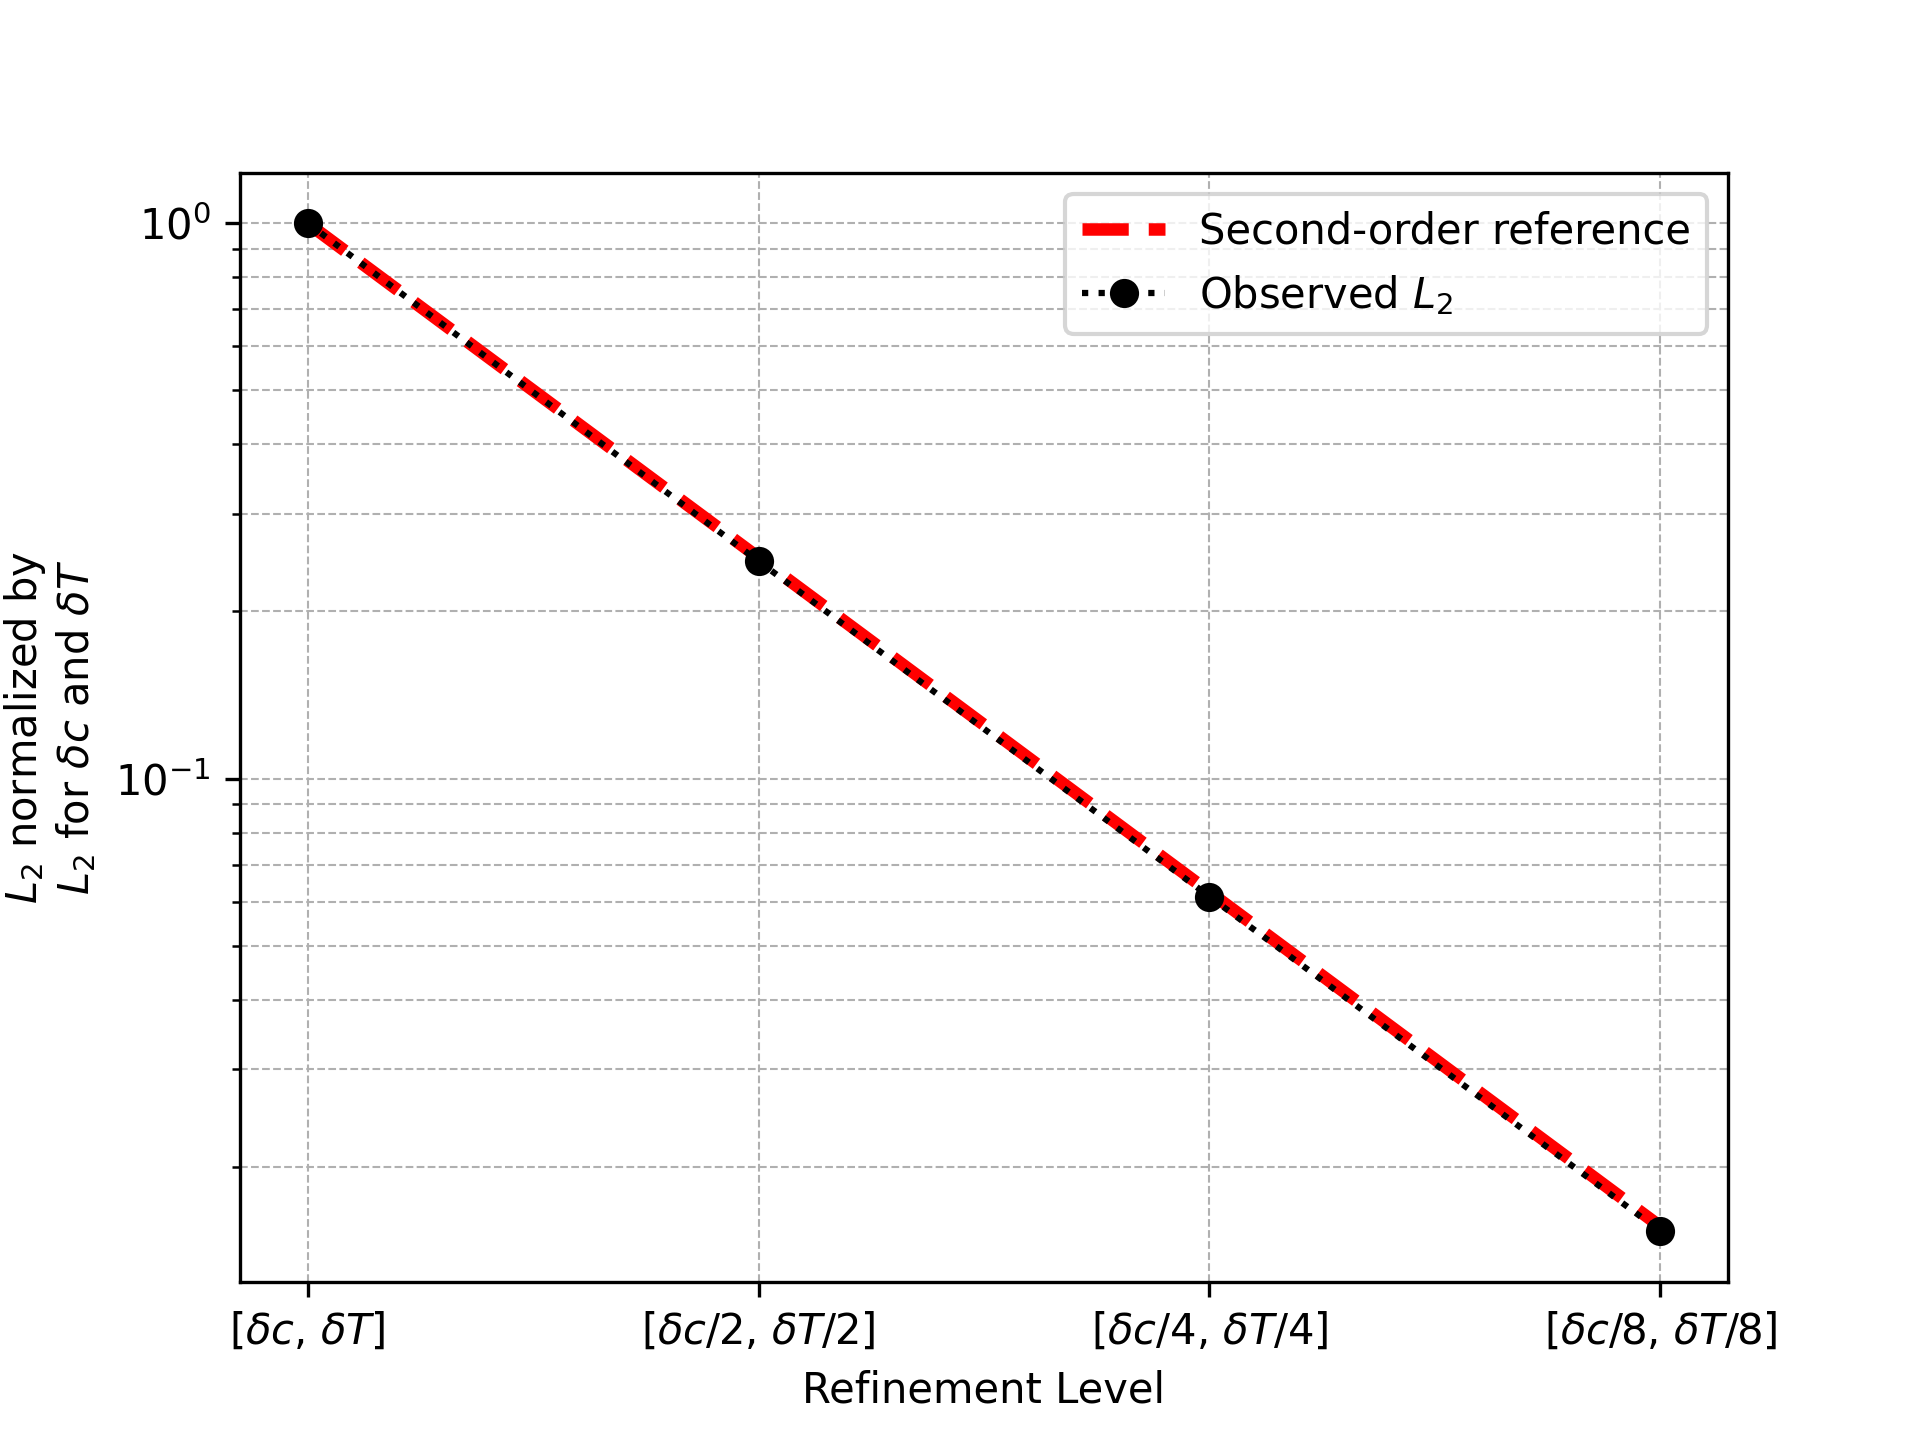
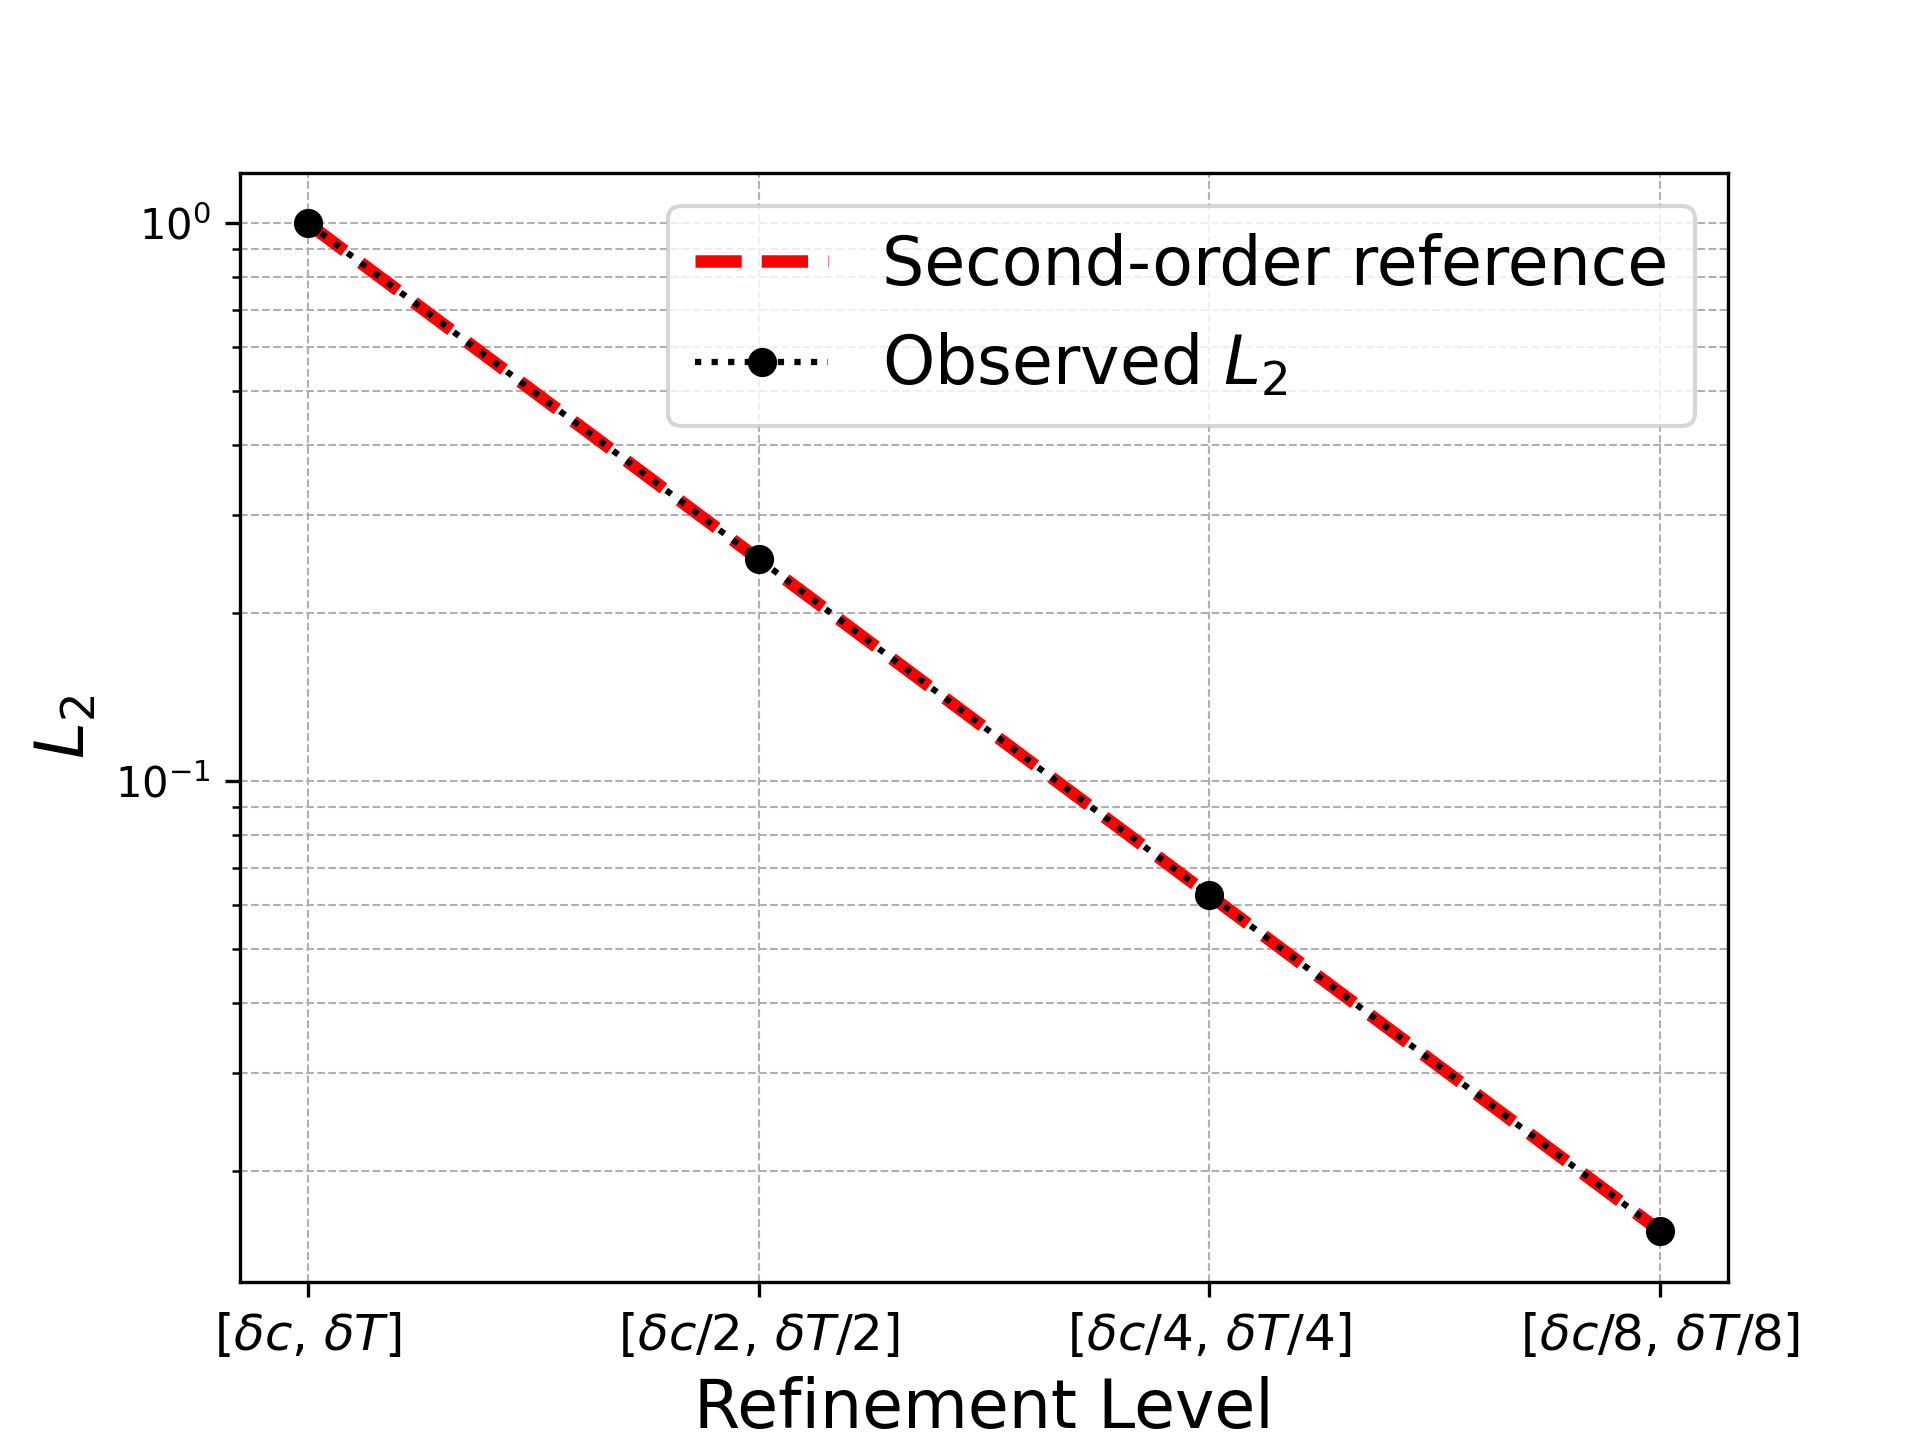
updates images to have larger fonts, changes tense, ready for Prof Wang

diff --git a/paper/data/01_error/post_errors_two.py b/paper/data/01_error/post_errors_two.py
@@ -2,8 +2,11 @@
 import numpy as np
 import matplotlib.pyplot as plt
 import seaborn as sns
-
-colors = ["purple", "blue", "orange", "red", "green"]
+try:
+    plt.style.use('seaborn-colorblind')
+except OSError:
+    plt.style.use('seaborn-v0_8-colorblind')
+colors = plt.rcParams['axes.prop_cycle'].by_key()['color']
 mechs = ["OConnaire", "burke", "gri30", "sandiego", "FFCM2_model"]
 names = ["Ó Connaire", "Burke", "GRI v3.0", "UCSD", "FFCM2"]
 mean_loc = -2.0  # for degree 7
@@ -23,12 +26,21 @@ for i, mech in enumerate(mechs):
         log_errors,
         ax=ax,
         bins=300,
+        stat='density',
         color=colors[i],
         alpha=0.5,
         edgecolor='black',
         label=names[i],
-        kde=True
-    )
+        kde=False  # disable internal kde
+        )
+# Add KDE manually
+    sns.kdeplot(
+        log_errors,
+        ax=ax,
+        color='black',
+        linewidth=0.75,
+        label=None
+        )
 
     mean_val = np.mean(log_errors)
     std_val = np.std(log_errors)
@@ -41,19 +53,19 @@ txtloc = np.linspace(0.57, 0.9, len(means))
 for r, mean_val in enumerate(means):
     ax.text(mean_loc, ax.get_ylim()[1]*(txtloc[r]+0.05), 
             f"{names[r]}: $\mu = {10**mean_val:3.2e}$\n$\sigma = {10**(mean_val + stds[r]):3.2e}$",
-            color="k", rotation=0, verticalalignment='top', fontsize=10)
+            color="k", rotation=0, verticalalignment='top', fontsize=16)
 
 xticks = ax.get_xticks()
 integer_ticks = xticks[np.isclose(xticks, np.round(xticks))]
 ax.set_xticks(integer_ticks)
 ax.set_xticklabels([f"$10^{{{int(t)}}}$" for t in integer_ticks])
-ax.set_title(f"$n_p={deg}$", fontsize=14)
+ax.set_title(f"$n_p={deg}$", fontsize=20)
 ax.set_xlim([-9, 1])
 ax.set_ylabel("Distribution", fontsize=12)
-ax.set_xlabel(r"$\epsilon$", fontsize=10)
+ax.set_xlabel(r"$\epsilon$", fontsize=16)
 
 handles, labels = ax.get_legend_handles_labels()
-fig.legend(handles[:5], labels[:5], loc='upper center', ncol=5, fontsize=10, title="Mechanism")
+fig.legend(handles[:5], labels[:5], loc='upper center', ncol=5, fontsize=16, title="Mechanism")
 
 plt.tight_layout(rect=[0, 0.05, 1, 0.90])
 plt.savefig("hist_deg7.png", dpi=300)
@@ -73,25 +85,39 @@ for j, deg in enumerate(degrees):
         errors = data[:, 1]
         log_errors = np.log10(errors)
 
+        # Histogram
         sns.histplot(
             log_errors,
             ax=ax,
             bins=300,
+            stat='density',
             color=colors[i],
             alpha=0.5,
             edgecolor='black',
             label=names[i],
-            kde=True
+            kde=False  # disable internal KDE
         )
 
+        # Manual KDE
+        sns.kdeplot(
+            log_errors,
+            ax=ax,
+            color='black',
+            linewidth=0.75,
+            label=None
+        )
+
+        # Stats
         mean_val = np.mean(log_errors)
         std_val = np.std(log_errors)
         means.append(mean_val)
         stds.append(std_val)
         ax.axvline(mean_val, color=colors[i], linestyle='--', linewidth=1)
 
-    ax.set_ylim([0, 350])
+    #ax.set_ylim([0, 350])
+    ax.set_ylim([0, 2.5])  # 🔒 lock axis before placing text
     txtloc = np.linspace(0.6, 0.9, len(means))
+    print(ax.get_ylim()[1])
     for r, mean_val in enumerate(means):
         ax.text(mean_locs[j], ax.get_ylim()[1]*(txtloc[r]+0.05), 
                 f"{names[r]}: $\mu = {10**mean_val:3.2e}$\n$\sigma = {10**(mean_val + stds[r]):3.2e}$",
@@ -101,14 +127,14 @@ for j, deg in enumerate(degrees):
     integer_ticks = xticks[np.isclose(xticks, np.round(xticks))]
     ax.set_xticks(integer_ticks)
     ax.set_xticklabels([f"$10^{{{int(t)}}}$" for t in integer_ticks])
-    ax.set_title(f"$n_p={deg}$", fontsize=14)
+    ax.set_title(f"$n_p={deg}$", fontsize=20)
     ax.set_xlim([-9, 1])
-    ax.set_xlabel(r"$\epsilon$", fontsize=10)
+    ax.set_xlabel(r"$\epsilon$", fontsize=16)
     if j == 0:
-        ax.set_ylabel("Distribution", fontsize=12)
+        ax.set_ylabel("Probability Distribution", fontsize=16)
 
 handles, labels = axes[0].get_legend_handles_labels()
-fig.legend(handles[:5], labels[:5], loc='upper center', ncol=5, fontsize=10, title="Mechanism")
+fig.legend(handles[:5], labels[:5], loc='upper center', ncol=5, fontsize=14)
 
 plt.tight_layout(rect=[0, 0.05, 1, 0.90])
 plt.savefig("hist_deg4_15.png", dpi=300)

diff --git a/paper/data/03_jacobians/post_errors.py b/paper/data/03_jacobians/post_errors.py
@@ -6,7 +6,11 @@ import seaborn as sns
 # Setup
 fig, axes = plt.subplots(1, 2, figsize=(18, 6), sharey=True)
 
-colors = ["purple", "blue", "orange", "red", "green"]
+try:
+    plt.style.use('seaborn-colorblind')
+except OSError:
+    plt.style.use('seaborn-v0_8-colorblind')
+colors = plt.rcParams['axes.prop_cycle'].by_key()['color']
 mechs = ["OConnaire", "burke", "gri30", "sandiego", "FFCM2_model"]
 names = ["Ó Connaire", "Burke", "GRI v3.0", "UCSD", "FFCM2"]
 
@@ -29,12 +33,21 @@ for k, L2 in enumerate(L2s):
         log_errors,
         ax=ax,
         bins=300,
+        stat='density',
         color=colors[k],
         alpha=0.5,
         edgecolor='black',
         label=names[k],
-        kde=True
-    )
+        kde=False  # disable internal kde
+        )
+# Add KDE manually
+    sns.kdeplot(
+        log_errors,
+        ax=ax,
+        color='black',
+        linewidth=0.75,
+        label=None
+        )
     ax.axvline(np.mean(log_errors), color=colors[k], linestyle='--', linewidth=1)
 
 ax.set_xlim([-14,-2])
@@ -42,10 +55,9 @@ xticks = ax.get_xticks()
 integer_ticks = xticks[np.isclose(xticks, np.round(xticks))]
 ax.set_xticks(integer_ticks)
 ax.set_xticklabels([f"$10^{{{int(t)}}}$" for t in integer_ticks])
-ax.set_title("$E_{norm}$ Error")
-ax.set_xlabel("$E_{norm}$ Error")
-ax.set_ylabel("Frequency")
-ax.legend(title="Mechanism")
+ax.set_xlabel("$E_{norm}$ Error", fontsize=16)
+ax.set_ylabel("Frequency", fontsize=16)
+ax.legend()
 
 # Right subplot: neighbor-aware error
 ax = axes[1]
@@ -64,20 +76,29 @@ for k, L2 in enumerate(L2snei):
         log_errors,
         ax=ax,
         bins=300,
+        stat='density',
         color=colors[k],
         alpha=0.5,
         edgecolor='black',
         label=names[k],
-        kde=True
-    )
+        kde=False  # disable internal kde
+        )
+# Add KDE manually
+    sns.kdeplot(
+        log_errors,
+        ax=ax,
+        color='black',
+        linewidth=0.75,
+        label=None
+        )
     ax.axvline(np.mean(log_errors), color=colors[k], linestyle='--', linewidth=1)
 ax.set_xlim([-14,-2])
 xticks = ax.get_xticks()
 integer_ticks = xticks[np.isclose(xticks, np.round(xticks))]
 ax.set_xticks(integer_ticks)
 ax.set_xticklabels([f"$10^{{{int(t)}}}$" for t in integer_ticks])
-ax.set_xlabel("$E_{rel}$ Error")
-ax.legend(title="Mechanism")
+ax.set_xlabel("$E_{rel}$ Error",fontsize=16)
+ax.legend()
 
 plt.tight_layout()
 plt.savefig("error_distribution.png",dpi=300)

diff --git a/paper/data/02_explicit_time_integration/post_ct.py b/paper/data/02_explicit_time_integration/post_ct.py
@@ -59,9 +59,8 @@ ax_temp.plot(d[:, 0]*1000.0, d[:, 1], '--k', label="ChemGen")
 np.save("c_T.npy", data[:, 1])
 np.save("c_time.npy", data[:, 0])
 ax_temp.set_xlim([0, 0.2])
-ax_temp.set_xlabel("Time ($\mu$s)")
-ax_temp.set_ylabel("Temperature (K)")
-ax_temp.set_title("Temperature Evolution")
+ax_temp.set_xlabel("Time ($\mu$s)", fontsize=16)
+ax_temp.set_ylabel("Temperature (K)", fontsize=16)
 ax_temp.legend()
 
 # ---- Plot Species Concentrations (Right) ----
@@ -73,8 +72,8 @@ for k, species in enumerate(["H2", "O2", "H2O"]):
                     color=plt.cm.tab10(color_idx[k]), label=species)
     ax_species.plot(d[:, 0]*1000.0, d[:,2 + idx], '--k')
 
-ax_species.set_xlabel("Time ($\mu$s)")
-ax_species.set_ylabel('Major Species Concentration [kmol/m³]')
+ax_species.set_xlabel("Time ($\mu$s)", fontsize=20)
+ax_species.set_ylabel('Major Species Concentration [kmol/m³]', fontsize=16)
 ax_species.set_xlim([0, 0.125])
 
 # Minor species on right y-axis
@@ -86,15 +85,13 @@ for k, (multiplier, species) in enumerate(zip(multipliers, ["H2O2", "OH", "H", "
              color=plt.cm.tab10(color_idx[3 + k]), linestyle='-', label=f"{species} $\\times$ {multiplier}")
     ax2.plot(d[:, 0]*1000.0, multiplier * d[:, 2+idx], '--k')
 
-ax2.set_ylabel('Minor Species Concentration [kmol/m³]')
+ax2.set_ylabel('Minor Species Concentration [kmol/m³]', fontsize=16)
 ax2.set_xlim([0, 0.125])
 
 # Combine legends
 lines1, labels1 = ax_species.get_legend_handles_labels()
 lines2, labels2 = ax2.get_legend_handles_labels()
-ax_species.legend(lines1 + lines2, labels1 + labels2, loc='upper right', ncol=2, fontsize=8)
-
-ax_species.set_title('Species Concentrations')
+ax_species.legend(lines1 + lines2, labels1 + labels2, loc='upper right', ncol=2, fontsize=10)
 
 # Final layout adjustments
 plt.tight_layout()

diff --git a/paper/data/04_implicit/post_convergence_H2.py b/paper/data/04_implicit/post_convergence_H2.py
@@ -43,7 +43,7 @@ for k, data_name in enumerate(["sdirk4","rosenbroc","yass"]):
     shift =0.30
 
 
-    plt.semilogy(refinement_levels[::-1], CL2/scales[k], 's-', color=colors[k], label=f'$\epsilon_{{2}}$ for {titles[k]}', mfc="white")
+    plt.semilogy(refinement_levels[::-1], CL2/scales[k], 's-', color=colors[k], label=f'$\epsilon_{{h}}$ for {titles[k]}', mfc="white")
     if data_name=="yass":
         plt.semilogy(refinement_levels[::-1], (CL2[0]-CL2[0] * shift) * (0.5)**(refinement_levels - 1)/scales[k], '--', color=colors[k], label=f'1st-order reference')
     elif data_name=="sdirk4":
@@ -51,13 +51,16 @@ for k, data_name in enumerate(["sdirk4","rosenbroc","yass"]):
     else:
         plt.semilogy(refinement_levels[::-1], (CL2[0]-CL2[0] * shift)  * (0.25)**(refinement_levels - 1)/scales[k], '--', color=colors[k], label=f'2nd-order reference')
     # Formatting
-    plt.xlabel("$h$")
-    plt.ylabel("$\epsilon_{h}$")
+    plt.xlabel("$h$", fontsize=16)
+    plt.ylabel("$\epsilon_{h}$", fontsize=16)
     #plt.title("Convergence of Temperature and Species")
     #plt.xticks(range(1, len(CL2) + 1))  # <- only show 1, 2, 3, 4, ...
     refinement_levels = np.arange(len(CL2))  # 0, 1, 2, 3, ...
     tick_labels = [r"$\Delta t$" if i == 0 else fr"$\Delta t/{2**i}$" for i in refinement_levels]
     plt.xticks(refinement_levels + 1, tick_labels[::-1])  # Shift +1 if your levels are labeled 1, 2, 3, 4
+    ax = plt.gca()
+    for line in ax.lines:
+        line.set_linewidth(2.0)  # set to desired linewidth
 
 
     # Only major log grid lines on y-axis

diff --git a/paper/data/01_error/post.py b/paper/data/01_error/post.py
@@ -63,11 +63,11 @@ ax.set_xticks(integer_ticks)
 ax.set_xticklabels([f"$10^{{{int(t)}}}$" for t in integer_ticks])
 #ax.set_title(f"$n_p={deg}$", fontsize=14)
 ax.set_xlim([-9, 1])
-ax.set_ylabel("Probability Density",fontsize=12)
-ax.set_xlabel(r"$\epsilon$", fontsize=10)
+ax.set_ylabel("Probability Density",fontsize=16)
+ax.set_xlabel(r"$\epsilon$", fontsize=16)
 
 handles, labels = ax.get_legend_handles_labels()
-fig.legend(handles[:5], labels[:5], loc='upper center', ncol=5, fontsize=10, title="Mechanism")
+fig.legend(handles[:5], labels[:5], loc='upper center', ncol=5, fontsize=14)
 
 plt.tight_layout(rect=[0, 0.05, 1, 0.90])
 plt.savefig("hist.png", dpi=300)

diff --git a/paper/data/03_jacobians/ooa.py b/paper/data/03_jacobians/ooa.py
@@ -147,12 +147,12 @@ plt.semilogy(refinement, L2s / L2s[0], ':ok', label='Observed $L_2$')
 
 # Custom x-axis tick labels
 tick_labels = [f"[$\\delta c/{2**r}$, $\\delta T/{2**r}$]" if r > 0 else "[$\\delta c$, $\\delta T$]" for r in refinement]
-plt.xticks(refinement, tick_labels)
+plt.xticks(refinement, tick_labels, fontsize=12)
 
 # Label the plot
-plt.xlabel('Refinement Level')
-plt.ylabel('$L_2$ normalized by\n$L_2$ for $\\delta c$ and $\\delta T$')
-plt.legend()
+plt.xlabel('Refinement Level',fontsize=16)
+plt.ylabel('$L_2$',fontsize=16)
+plt.legend(fontsize=16)
 plt.grid(True, which="both", ls="--", lw=0.5)
 plt.savefig("ooa.png",dpi=300)
 plt.show()

diff --git a/paper/data/04_implicit/post_ct.py b/paper/data/04_implicit/post_ct.py
@@ -81,8 +81,7 @@ d = np.loadtxt("yass.txt")
 plt.plot(d[:, 0]*1000000.0, d[:, 1],'-d',color='orange', label = "ChemGen YASS", markevery=int(len(d[:, 0])/10))
 
 plt.legend()
-plt.xlabel("Time ($\mu$s)")
-plt.ylabel("Temperature (K)")
-plt.title("Temperature Evolution in Homogeneous Reactor")
+plt.xlabel("Time ($\mu$s)",fontsize=16)
+plt.ylabel("Temperature (K)",fontsize=16)
 plt.savefig("implicit_time.png",dpi=300)
 plt.show()
